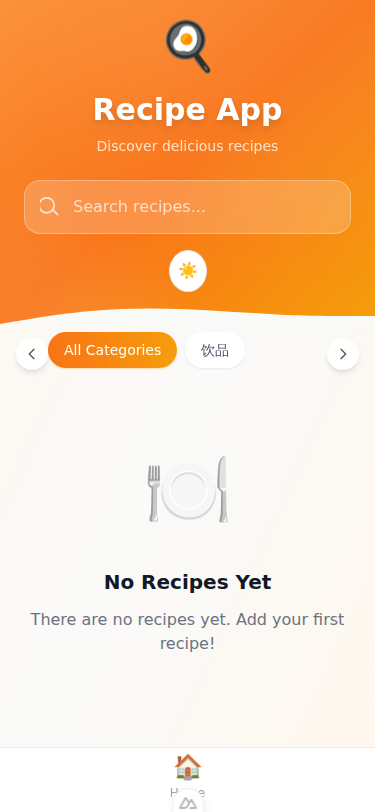
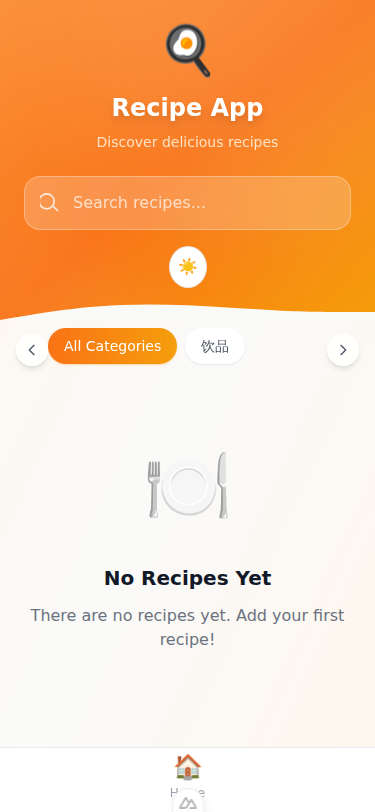
fix: 完善移动端适配
任务: 完善移动端适配
时间: 2026-03-21 04:55:07
自动提交 by recipe-app-iterator.sh

diff --git a/web/app/components/CategoryNav.vue b/web/app/components/CategoryNav.vue
@@ -46,7 +46,8 @@ const scroll = (direction: 'left' | 'right') => {
     <!-- 左侧滚动按钮 -->
     <button 
       @click="scroll('left')"
-      class="absolute left-0 top-1/2 -translate-y-1/2 z-10 w-8 h-8 flex items-center justify-center bg-white/90 dark:bg-stone-800/90 backdrop-blur-sm rounded-full shadow-md hover:bg-white dark:hover:bg-stone-800 transition-colors md:hidden"
+      class="absolute left-0 top-1/2 -translate-y-1/2 z-10 w-11 h-11 flex items-center justify-center bg-white/90 dark:bg-stone-800/90 backdrop-blur-sm rounded-full shadow-md hover:bg-white dark:hover:bg-stone-800 transition-colors md:hidden active:scale-95 touch-manipulation"
+      aria-label="滚动左侧"
     >
       <svg class="w-4 h-4 text-gray-600 dark:text-stone-300" fill="none" stroke="currentColor" viewBox="0 0 24 24">
         <path stroke-linecap="round" stroke-linejoin="round" stroke-width="2" d="M15 19l-7-7 7-7"></path>
@@ -62,7 +63,7 @@ const scroll = (direction: 'left' | 'right') => {
       <button
         @click="emit('select', '')"
         :class="[
-          'shrink-0 px-4 py-2 rounded-full text-sm font-medium transition-all duration-200 shadow-sm',
+          'shrink-0 px-4 py-2.5 rounded-full text-sm font-medium transition-all duration-200 shadow-sm touch-manipulation active:scale-95 min-h-[44px] flex items-center',
           selected === '' 
             ? 'bg-gradient-to-r from-orange-500 to-amber-500 text-white shadow-orange-200 dark:shadow-orange-900/30' 
             : 'bg-white dark:bg-stone-800 text-gray-600 dark:text-stone-300 shadow-gray-200 dark:shadow-stone-700/50 hover:shadow-md dark:hover:shadow-lg'
@@ -77,7 +78,7 @@ const scroll = (direction: 'left' | 'right') => {
         :key="cat.name"
         @click="emit('select', cat.name)"
         :class="[
-          'shrink-0 px-4 py-2 rounded-full text-sm font-medium transition-all duration-200 shadow-sm',
+          'shrink-0 px-4 py-2.5 rounded-full text-sm font-medium transition-all duration-200 shadow-sm touch-manipulation active:scale-95 min-h-[44px] flex items-center',
           selected === cat.name 
             ? 'bg-gradient-to-r from-orange-500 to-amber-500 text-white shadow-orange-200 dark:shadow-orange-900/30' 
             : 'bg-white dark:bg-stone-800 text-gray-600 dark:text-stone-300 shadow-gray-200 dark:shadow-stone-700/50 hover:shadow-md dark:hover:shadow-lg'
@@ -90,7 +91,8 @@ const scroll = (direction: 'left' | 'right') => {
     <!-- 右侧滚动按钮 -->
     <button 
       @click="scroll('right')"
-      class="absolute right-0 top-1/2 -translate-y-1/2 z-10 w-8 h-8 flex items-center justify-center bg-white/90 dark:bg-stone-800/90 backdrop-blur-sm rounded-full shadow-md hover:bg-white dark:hover:bg-stone-800 transition-colors md:hidden"
+      class="absolute right-0 top-1/2 -translate-y-1/2 z-10 w-11 h-11 flex items-center justify-center bg-white/90 dark:bg-stone-800/90 backdrop-blur-sm rounded-full shadow-md hover:bg-white dark:hover:bg-stone-800 transition-colors md:hidden active:scale-95 touch-manipulation"
+      aria-label="滚动右侧"
     >
       <svg class="w-4 h-4 text-gray-600 dark:text-stone-300" fill="none" stroke="currentColor" viewBox="0 0 24 24">
         <path stroke-linecap="round" stroke-linejoin="round" stroke-width="2" d="M9 5l7 7-7 7"></path>

diff --git a/web/app/pages/index.vue b/web/app/pages/index.vue
@@ -90,11 +90,11 @@ onMounted(() => {
       <!-- 玻璃态内容 -->
       <div class="relative px-6 py-8">
         <div class="text-center mb-6">
-          <div class="text-5xl mb-3 animate-bounce" style="animation-duration: 3s;">🍳</div>
-          <h1 class="text-2xl sm:text-3xl font-bold text-white mb-2 drop-shadow-lg">
+          <div class="text-4xl sm:text-5xl mb-3 animate-bounce" style="animation-duration: 3s;">🍳</div>
+          <h1 class="text-xl sm:text-2xl md:text-3xl font-bold text-white mb-2 drop-shadow-lg">
             {{ t('app.title') }}
           </h1>
-          <p class="text-orange-100 text-sm mb-4 opacity-90">
+          <p class="text-orange-100 text-xs sm:text-sm mb-4 opacity-90">
             {{ t('app.subtitle') }}
           </p>
         </div>
@@ -105,7 +105,7 @@ onMounted(() => {
             v-model="searchQuery"
             type="text"
             :placeholder="t('search.placeholder')"
-            class="w-full px-5 py-3.5 pl-12 rounded-2xl bg-white/20 backdrop-blur-xl border border-white/30 text-white placeholder-white/70 focus:outline-none focus:ring-2 focus:ring-white/50 focus:bg-white/30 transition-all"
+            class="w-full px-4 sm:px-5 py-3 sm:py-3.5 pl-11 sm:pl-12 rounded-2xl bg-white/20 backdrop-blur-xl border border-white/30 text-white placeholder-white/70 focus:outline-none focus:ring-2 focus:ring-white/50 focus:bg-white/30 transition-all text-base"
             @input="debouncedSearch"
           />
           <svg class="absolute left-4 top-1/2 -translate-y-1/2 w-5 h-5 text-white/80" fill="none" stroke="currentColor" viewBox="0 0 24 24">

diff --git a/web/app/components/MobileNavbar.vue b/web/app/components/MobileNavbar.vue
@@ -55,7 +55,8 @@ const handleTouchEnd = () => {
     role="navigation"
     :aria-label="t('nav.bottomNavAria', '底部导航')"
   >
-    <div class="flex items-center justify-around h-14">
+    <!-- 触摸目标扩展区域 -->
+    <div class="flex items-center justify-around h-14 min-h-[56px] touch-manipulation">
       <NuxtLink
         v-for="tab in tabs"
         :key="tab.path"

diff --git a/web/test_mobile_full.py b/web/test_mobile_full.py
@@ -1,0 +1,88 @@
+from playwright.sync_api import sync_playwright
+
+with sync_playwright() as p:
+    browser = p.chromium.launch(headless=True)
+    context = browser.new_context(
+        viewport={'width': 375, 'height': 812},
+        has_touch=True
+    )
+    page = context.new_page()
+    
+    print("=" * 50)
+    print("MOBILE 375px LAYOUT ANALYSIS")
+    print("=" * 50)
+    
+    # Test 1: Home page
+    print("\n[1] Testing Home Page...")
+    page.goto('http://localhost:3000', wait_until='networkidle', timeout=30000)
+    page.wait_for_timeout(2000)
+    
+    # Get all visible text
+    title = page.title()
+    print(f"Page title: {title}")
+    
+    # Check hero elements
+    hero_title = page.locator('h1').first
+    if hero_title.is_visible():
+        print(f"Hero title: '{hero_title.inner_text()[:50]}'")
+    
+    # Check for recipe cards (by NuxtLink to recipes)
+    recipe_links = page.locator('a[href*="/recipes/"]').all()
+    print(f"Recipe links found: {len(recipe_links)}")
+    
+    # Check category buttons
+    cat_buttons = page.locator('button:has-text("全部分类")').count()
+    print(f"Category filter visible: {cat_buttons > 0}")
+    
+    # Check bottom nav
+    nav_items = page.locator('nav >> text=首页').count()
+    print(f"Bottom nav visible: {nav_items > 0}")
+    
+    # Full page screenshot
+    page.screenshot(path='/root/code/recipe-app/web/screenshots/mobile_375_home_v2.png', full_page=True)
+    
+    # Test 2: Navigate to a recipe
+    if recipe_links:
+        print("\n[2] Testing Recipe Detail Page...")
+        recipe_links[0].click()
+        page.wait_for_load_state('networkidle')
+        page.wait_for_timeout(1000)
+        
+        # Check recipe title
+        h1 = page.locator('h1').first
+        if h1.is_visible():
+            print(f"Recipe title: '{h1.inner_text()[:50]}'")
+        
+        # Check ingredients
+        ingredients = page.locator('text=食材').count()
+        print(f"Ingredients section: {ingredients > 0}")
+        
+        # Check steps
+        steps = page.locator('text=步骤').count()
+        print(f"Steps section: {steps > 0}")
+        
+        # Take detail screenshot
+        page.screenshot(path='/root/code/recipe-app/web/screenshots/mobile_375_detail.png', full_page=False)
+        
+        # Test 3: Check for touch targets
+        print("\n[3] Testing Touch Targets...")
+        buttons = page.locator('button').all()
+        small_buttons = []
+        for btn in buttons:
+            box = btn.bounding_box()
+            if box and (box['width'] < 44 or box['height'] < 44):
+                small_buttons.append({
+                    'text': btn.inner_text()[:30],
+                    'width': box['width'],
+                    'height': box['height']
+                })
+        
+        print(f"Buttons smaller than 44px touch target: {len(small_buttons)}")
+        for btn in small_buttons[:5]:  # Show first 5
+            print(f"  - '{btn['text']}' ({btn['width']:.0f}x{btn['height']:.0f}px)")
+    
+    print("\n" + "=" * 50)
+    print("TEST COMPLETE")
+    print("=" * 50)
+    
+    browser.close()

diff --git a/web/test_mobile_dom.py b/web/test_mobile_dom.py
@@ -1,0 +1,44 @@
+from playwright.sync_api import sync_playwright
+
+with sync_playwright() as p:
+    browser = p.chromium.launch(headless=True)
+    page = browser.new_page(viewport={'width': 375, 'height': 812})
+    
+    print("Testing home page with longer wait...")
+    page.goto('http://localhost:3000', timeout=30000)
+    
+    # Wait for potential JS rendering
+    page.wait_for_timeout(5000)
+    
+    # Get page content
+    html = page.content()
+    
+    # Look for Nuxt-specific content
+    has_nuxt_link = 'NuxtLink' in html or 'nuxt-link' in html
+    has_recipe = 'recipe' in html.lower()
+    
+    print(f"Has NuxtLink: {has_nuxt_link}")
+    print(f"Has 'recipe' text: {has_recipe}")
+    
+    # Get body text
+    body_text = page.locator('body').inner_text()
+    print(f"\nBody text preview (500 chars):")
+    print(body_text[:500])
+    
+    # List all links
+    links = page.locator('a').all()
+    print(f"\nTotal links on page: {len(links)}")
+    for link in links[:10]:
+        href = link.get_attribute('href')
+        text = link.inner_text()[:30]
+        print(f"  - {text}: {href}")
+    
+    # Check for loading state
+    loading = page.locator('[class*="loading"], [class*="skeleton"], [class*="pulse"]').count()
+    print(f"\nLoading/skeleton elements: {loading}")
+    
+    # Screenshot
+    page.screenshot(path='/root/code/recipe-app/web/screenshots/mobile_375_dom.png', full_page=True)
+    print("\nScreenshot saved")
+    
+    browser.close()

diff --git a/web/test_mobile_debug.py b/web/test_mobile_debug.py
@@ -1,0 +1,39 @@
+from playwright.sync_api import sync_playwright
+
+with sync_playwright() as p:
+    browser = p.chromium.launch(headless=True)
+    page = browser.new_page(viewport={'width': 375, 'height': 812})
+    
+    print("Testing: Home page at 375px")
+    page.goto('http://localhost:3000', wait_until='networkidle', timeout=30000)
+    page.wait_for_timeout(3000)
+    
+    # Check for horizontal overflow
+    body_width = page.evaluate('document.body.scrollWidth')
+    viewport_width = page.evaluate('window.innerWidth')
+    print(f"Body width: {body_width}, Viewport: {viewport_width}")
+    print(f"Horizontal overflow: {body_width > viewport_width}")
+    
+    # Check specific elements
+    hero = page.locator('header.md\\:hidden').first
+    if hero.is_visible():
+        print("Hero section: VISIBLE")
+        box = hero.bounding_box()
+        print(f"Hero box: {box}")
+    
+    # Check cards
+    cards = page.locator('.recipe-card-enter, [class*="rounded-2xl"]').all()
+    print(f"Card-like elements found: {len(cards)}")
+    
+    # Check bottom nav
+    nav = page.locator('nav.md\\:hidden').first
+    if nav.is_visible():
+        print("Mobile nav: VISIBLE")
+        box = nav.bounding_box()
+        print(f"Nav box: {box}")
+        
+    # Take screenshot
+    page.screenshot(path='/root/code/recipe-app/web/screenshots/mobile_375_debug.png', full_page=False)
+    print("Screenshot saved")
+    
+    browser.close()

diff --git a/.recipe-iteration-tasks.md b/.recipe-iteration-tasks.md
@@ -170,12 +170,12 @@
   - 添加时间: 2026-03-21 04:27
   - 来源: Agent Team
 
-→ [20260321044519-2513826-zl3v] 🟢 **添加错误边界**
+- [x] 🟢 **添加错误边界**
   - 描述: 实现 Vue 错误边界处理
   - 添加时间: 2026-03-21 04:27
   - 来源: Agent Team
 
-- [ ] 🟡 **完善移动端适配**
+→ [20260321045001-2517014-2r9c] 🟡 **完善移动端适配**
   - 描述: 测试并优化移动端布局
   - 添加时间: 2026-03-21 04:27
   - 来源: Agent Team
